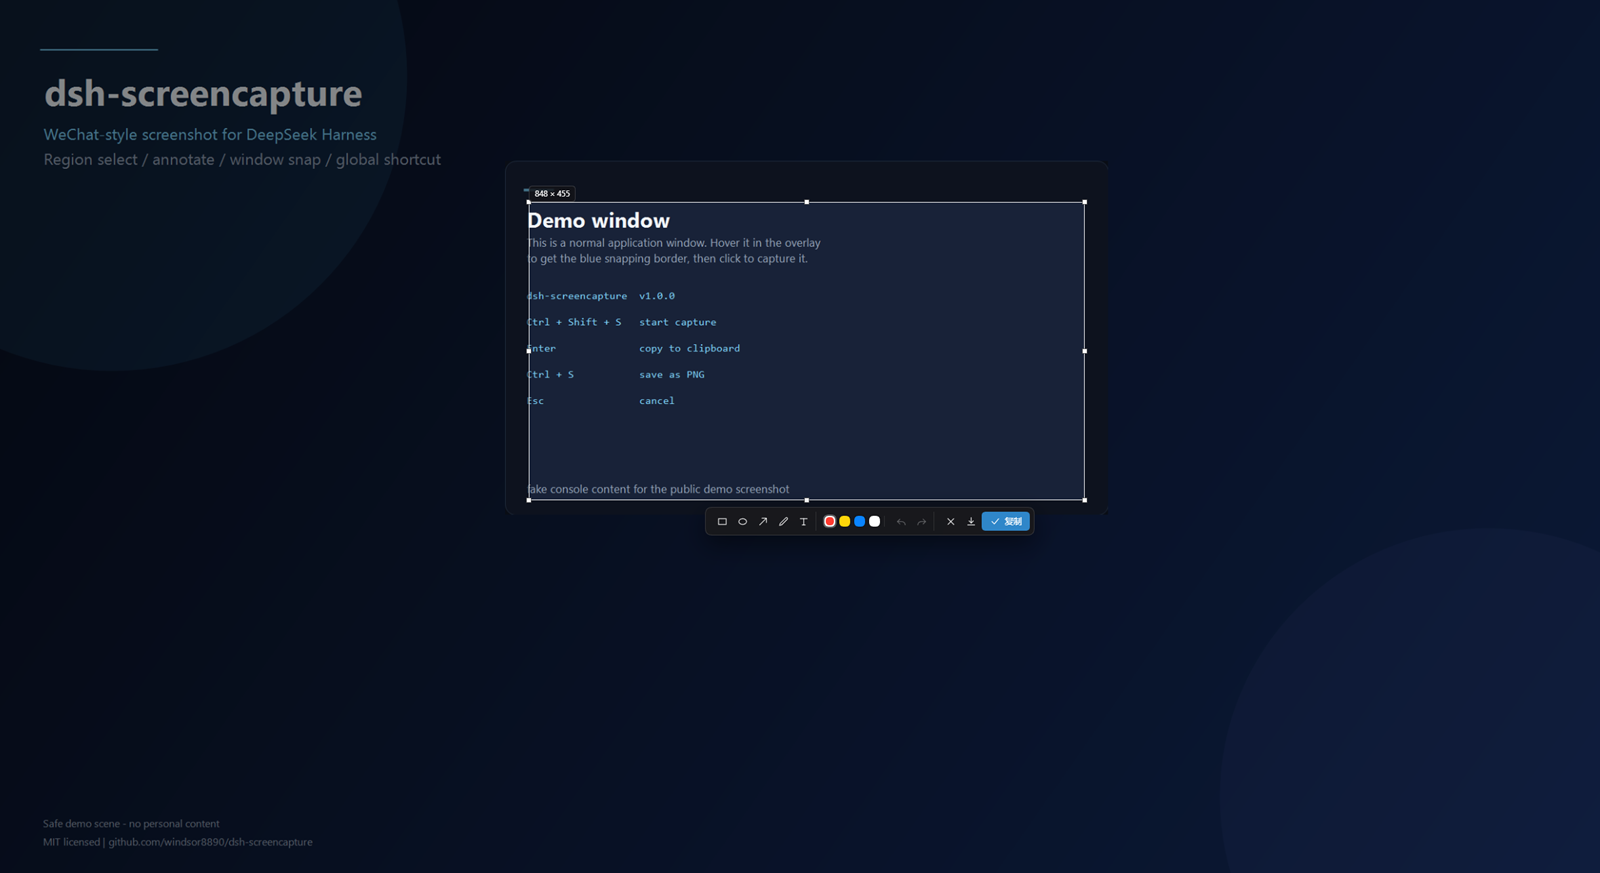
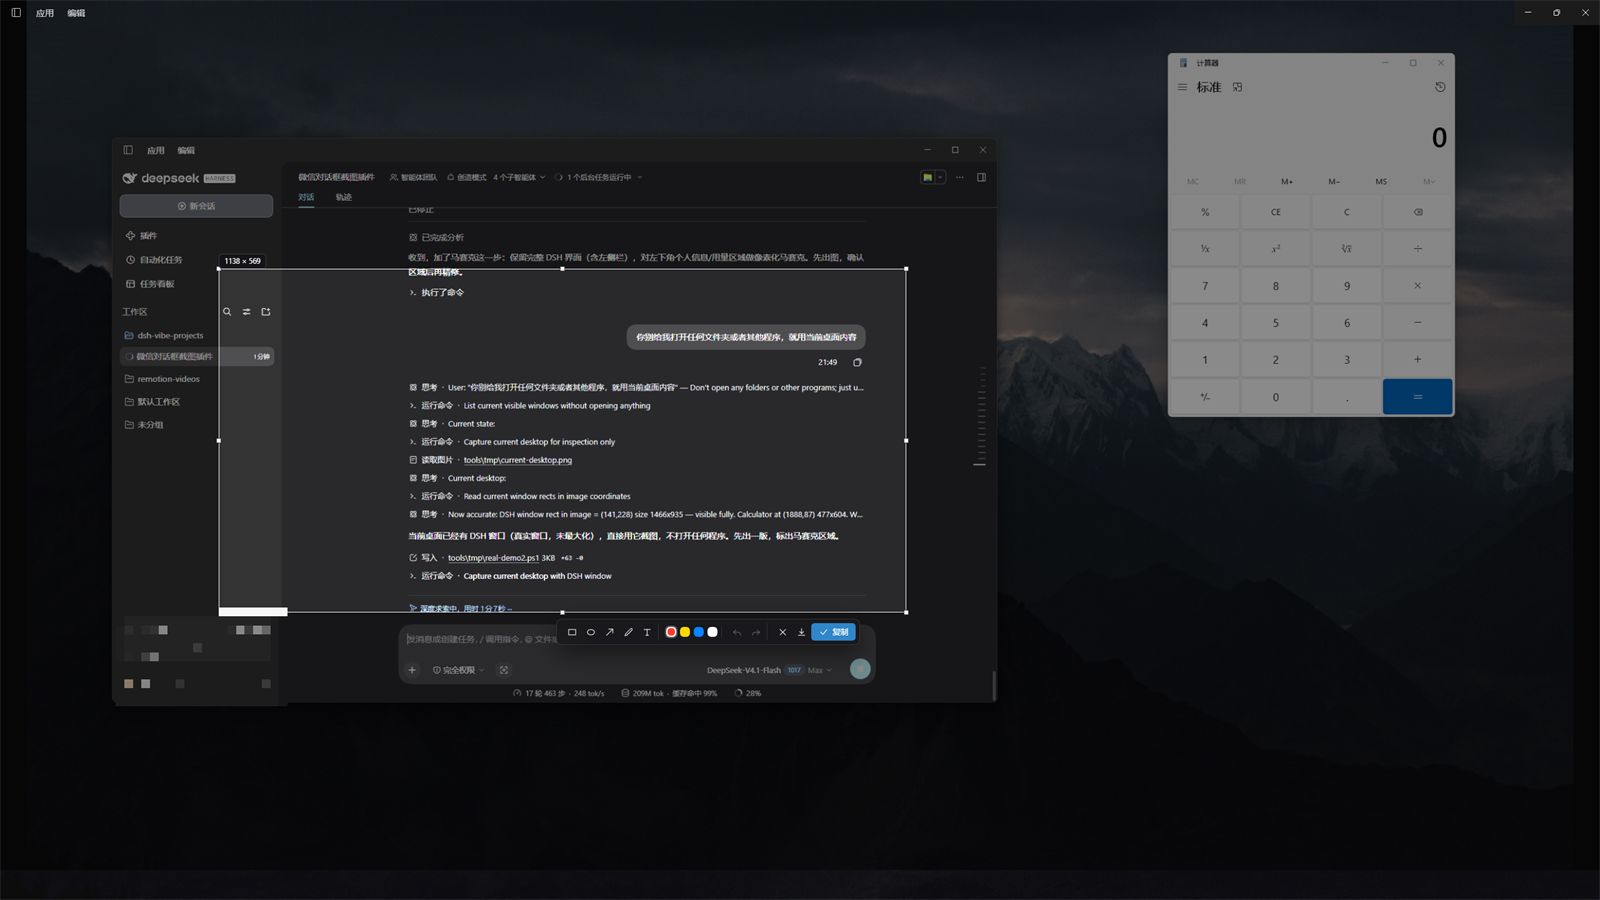
docs: use real desktop screenshots with masked personal area
Replace the synthetic demo images with real desktop captures including the DSH UI as requested; the bottom-left personal-information/usage card is pixelated in both images. READMEs updated to state the screenshots are real desktop captures.

diff --git a/README.en.md b/README.en.md
@@ -27,7 +27,8 @@ paste the result into the composer with `Ctrl + V` right away.
 
 ## Screenshots
 
-Both images were generated with a neutral demo scene — no real user desktop content:
+These are **real desktop** captures (with the full DSH interface); the personal-information and
+usage area at the bottom-left is pixelated:
 
 | Region select &amp; annotations | Window snapping |
 |---|---|

diff --git a/README.md b/README.md
@@ -26,7 +26,7 @@
 
 ## 界面预览
 
-以下截图使用中性演示窗口生成，不包含任何真实用户桌面内容：
+以下截图来自**真实桌面**（含完整 DSH 界面），左下角个人信息与用量区域已做像素化处理：
 
 | 框选与标注 | 窗口吸附 |
 |---|---|
